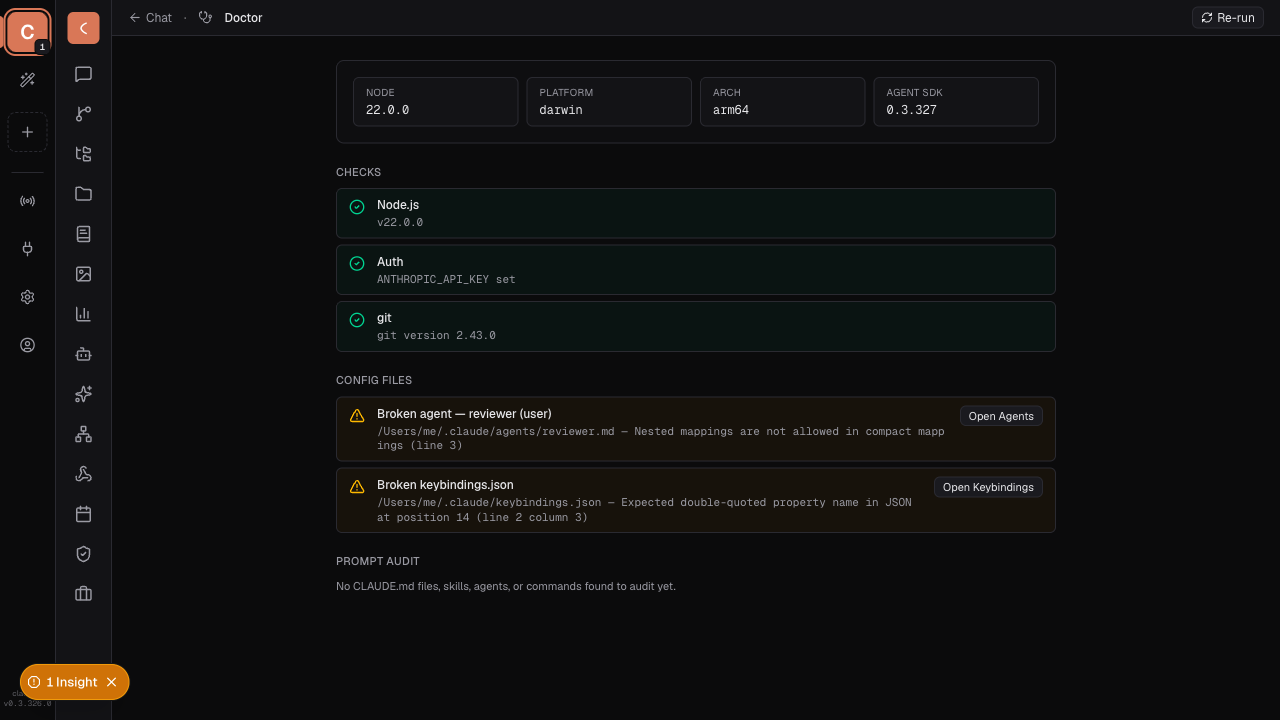
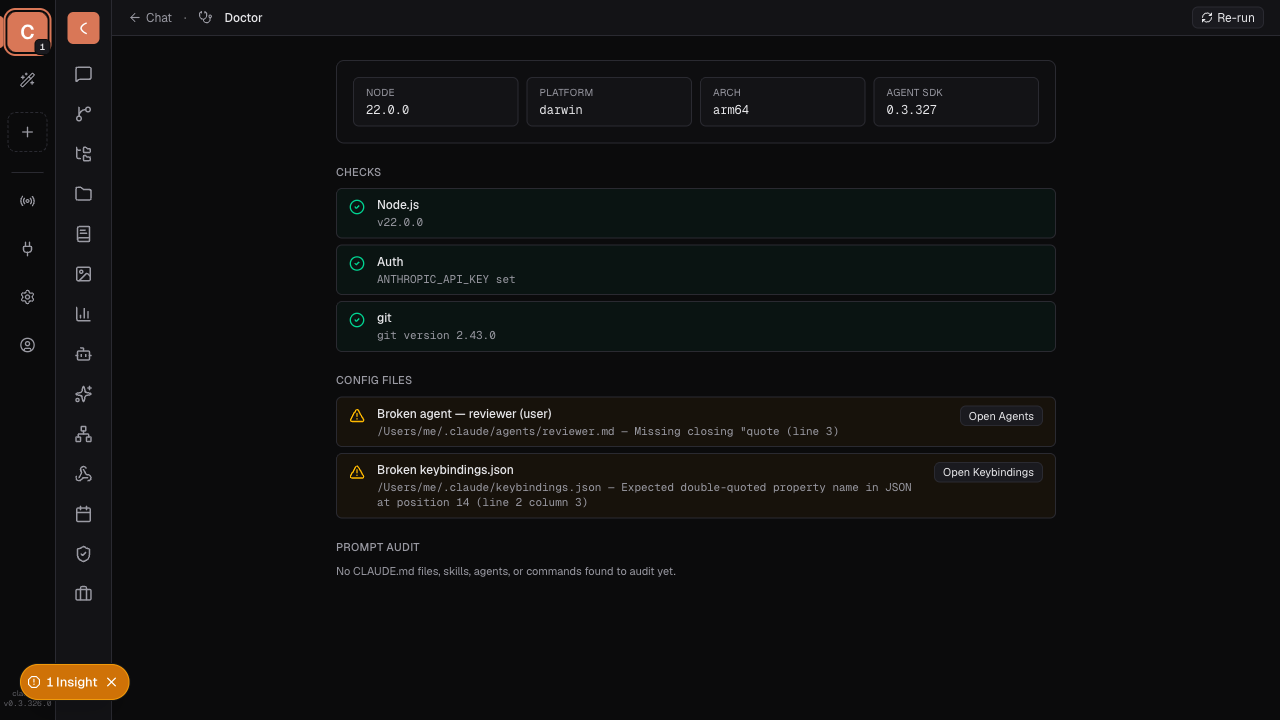
fix(cc-parity): /doctor and /status no longer flag agent and skill files the engine loads (2.1.327)
The engine retries a failed frontmatter parse after quoting values that hold
": " or YAML indicator characters, so descriptions like "Examples: <example>"
load fine there but were reported broken here (and lost their description on
the Agents/Skills pages). Both now share that fallback. /status's Problems
count covers every workspace, matching what /doctor lists.

Changed region(s): [[0.25, 0.6111, 0.8125, 0.825], [0.5, 0.5806, 0.6562, 0.6111], [0.6875, 0.5806, 0.75, 0.6111]]

diff --git a/lib/server/agents.ts b/lib/server/agents.ts
@@ -139,6 +139,51 @@ export async function deleteAgent(scope: AgentScope, projectCwd: string, name: s
 
 const FM_RE = /^---\r?\n([\s\S]*?)\r?\n---\r?\n?([\s\S]*)$/;
 
+// A plain `key: value` line whose value holds a YAML indicator character or
+// a `: ` — the engine's trigger for quote-wrapping the value.
+const YAML_SPECIAL_VALUE_RE = /[{}[\]*&#!|>%@`]|: /;
+
+function quoteSpecialValues(text: string): string {
+  return text
+    .split("\n")
+    .map((line) => {
+      const m = /^([a-zA-Z_-]+):\s+(\S.*)$/.exec(line);
+      if (!m) return line;
+      const [, key, value] = m;
+      if ((value.startsWith('"') && value.endsWith('"')) || (value.startsWith("'") && value.endsWith("'"))) {
+        return line;
+      }
+      if (value.startsWith("[") && value.endsWith("]")) {
+        try {
+          if (Array.isArray(parseYaml(value))) return line;
+        } catch {
+          // Not a valid flow list — fall through to quoting.
+        }
+      }
+      if (!YAML_SPECIAL_VALUE_RE.test(value)) return line;
+      const escaped = value.replaceAll("\\", "\\\\").replaceAll('"', '\\"');
+      return `${key}: "${escaped}"`;
+    })
+    .join("\n");
+}
+
+/**
+ * Parse frontmatter YAML the way the engine (bundled `claude`) does: strict
+ * YAML first; if that throws, quote-wrap every top-level `key: value` line
+ * whose value contains YAML indicator characters or `: ` (so
+ * `description: Use this agent when… Examples: <example>Context: …` loads),
+ * turn leading tabs into two spaces each, and parse again. Throws only when
+ * the rescued text still doesn't parse.
+ */
+export function parseFrontmatterYaml(text: string): unknown {
+  try {
+    return parseYaml(text);
+  } catch {
+    const rescued = quoteSpecialValues(text).replace(/^\t+/gm, (tabs) => "  ".repeat(tabs.length));
+    return parseYaml(rescued);
+  }
+}
+
 export function parseFrontmatter(raw: string): { frontmatter: Record<string, unknown>; body: string } {
   // CC 2.1.239 (G4) — a file saved with a UTF-8 BOM keeps the leading ``
   // after `fs.readFile(…,"utf8")`, so the `^---` delimiter never matches and the
@@ -152,14 +197,15 @@ export function parseFrontmatter(raw: string): { frontmatter: Record<string, unk
     // YAML 1.2 core schema (the `yaml` default): booleans/numbers/null parse
     // to their JS types; ISO date strings stay strings (no YAML-1.1 timestamp
     // coercion), so a `model:`/`description:` that looks date-ish is safe.
-    const parsed = parseYaml(m[1]);
+    const parsed = parseFrontmatterYaml(m[1]);
     if (parsed && typeof parsed === "object" && !Array.isArray(parsed)) {
       frontmatter = parsed as Record<string, unknown>;
     }
   } catch {
-    // Malformed YAML frontmatter falls back to empty — matching the prior
-    // parser's tolerance — rather than throwing. The body is still returned
-    // so the agent/skill prompt remains editable in the UI.
+    // Malformed YAML frontmatter (even after the engine's quoting fallback)
+    // falls back to empty — matching the prior parser's tolerance — rather
+    // than throwing. The body is still returned so the agent/skill prompt
+    // remains editable in the UI.
   }
   return { frontmatter, body: m[2] };
 }
@@ -184,7 +230,7 @@ export function frontmatterError(raw: string): string | null {
   }
   let parsed: unknown;
   try {
-    parsed = parseYaml(m[1]);
+    parsed = parseFrontmatterYaml(m[1]);
   } catch (err) {
     const e = err as Error & { linePos?: Array<{ line: number; col: number }> };
     const first = (e.message ?? String(err)).split("\n")[0].replace(/ at line \d+, column \d+:?\s*$/, "").trim();

diff --git a/tests/unit/cc-parity-2.1.327-status-problems.test.ts b/tests/unit/cc-parity-2.1.327-status-problems.test.ts
@@ -15,14 +15,22 @@ import { join } from "node:path";
  * temp HOME keeps the real `~/.claude` untouched.
  */
 
-const { frontmatterError, parseFrontmatter } = await import("@/lib/server/agents");
+const { frontmatterError, parseFrontmatter, parseFrontmatterYaml } = await import("@/lib/server/agents");
 const { listConfigFileProblems, configFileChecks } = await import("@/lib/server/config-file-problems");
 const { createWorkspace } = await import("@/lib/server/workspaces-store");
 const filesRoute = await import("@/app/api/doctor/files/route");
 const doctorRoute = await import("@/app/api/doctor/route");
 
 const GOOD = "---\nname: good\ndescription: Reviews code\n---\nYou review code.\n";
-const BROKEN = "---\nname: broken\ndescription: Reviews: code\n---\nYou review code.\n";
+// A mis-indented line: the engine's quote-wrapping fallback only rewrites
+// top-level `key: value` lines, so this still fails its second parse.
+const BROKEN = "---\nname: broken\ndescription: Reviews code\n  model: sonnet\n---\nYou review code.\n";
+// Strict YAML rejects these (`: ` inside a plain scalar), but the engine
+// quote-wraps the value and loads the agent — so they must not be flagged.
+const RESCUED = "---\nname: rescued\ndescription: Reviews: code\n---\nYou review code.\n";
+const RESCUED_EXAMPLES =
+  "---\nname: helper\ndescription: Use this agent when reviewing. Examples: <example>Context: a PR</example>\n" +
+  "tools: [Read, Grep]\n---\nBody\n";
 
 describe("frontmatterError", () => {
   test("null for valid, empty or missing frontmatter", () => {
@@ -33,11 +41,30 @@ describe("frontmatterError", () => {
     expect(frontmatterError("---\n# just a comment\n---\nbody\n")).toBeNull();
   });
 
+  test("mirrors the engine's fallback: values with `: ` or indicator characters still load", () => {
+    expect(frontmatterError(RESCUED)).toBeNull();
+    expect(parseFrontmatter(RESCUED).frontmatter).toEqual({ name: "rescued", description: "Reviews: code" });
+    expect(frontmatterError(RESCUED_EXAMPLES)).toBeNull();
+    expect(parseFrontmatter(RESCUED_EXAMPLES).frontmatter).toEqual({
+      name: "helper",
+      description: "Use this agent when reviewing. Examples: <example>Context: a PR</example>",
+      tools: ["Read", "Grep"],
+    });
+    // Backslashes and double quotes survive the quote-wrap.
+    expect(parseFrontmatter('---\ndescription: say "hi" \\ then: go\n---\n').frontmatter).toEqual({
+      description: 'say "hi" \\ then: go',
+    });
+    // Leading tabs become two spaces each.
+    expect(parseFrontmatterYaml("tools:\n\t- Read\n\t- Grep\n")).toEqual({ tools: ["Read", "Grep"] });
+  });
+
   test("names the YAML error with its file line number", () => {
     expect(frontmatterError(BROKEN)).toBe("Nested mappings are not allowed in compact mappings (line 3)");
     expect(frontmatterError("---\nname: a\nname: b\n---\n")).toBe("Map keys must be unique (line 3)");
     // Only the first line of the yaml package's multi-line message survives.
     expect(frontmatterError('---\ndescription: "open\n---\n')).not.toContain("\n");
+    // Not rescued: an unterminated quote isn't rewritten by the fallback.
+    expect(frontmatterError('---\nname: x\ndescription: "Reviews code\n---\n')).toBe('Missing closing "quote (line 3)');
   });
 
   test("flags frontmatter parseFrontmatter would drop for not being a map", () => {

diff --git a/components/overlays/StatusOverlay.tsx b/components/overlays/StatusOverlay.tsx
@@ -28,25 +28,20 @@ type Props = {
    * Claude Code parity, 2.1.275: "the signed-in account ... /status shows it."
    */
   account: { label: string; driftFromActive?: { label: string } } | null;
-  /**
-   * Workspace the chat belongs to — narrows the Problems row to its project
-   * agents/skills (plus the user scope). Null checks every workspace.
-   */
-  workspaceId?: string | null;
   onClose: () => void;
 };
 
 /**
  * CC 2.1.327 parity — "Added a list in /status of broken agent, skill …
- * files, keybinding errors". Counts what `GET /api/doctor/files` reports;
- * the full list lives in /doctor's Config files section.
+ * files, keybinding errors". Counts what `GET /api/doctor/files` reports
+ * across every workspace — the same set /doctor's Config files section
+ * lists, so the count always matches what "Open /doctor" shows.
  */
-function useConfigFileProblemCount(workspaceId: string | null): number | null {
+function useConfigFileProblemCount(): number | null {
   const [count, setCount] = useState<number | null>(null);
   useEffect(() => {
     const controller = new AbortController();
-    const qs = workspaceId ? `?workspaceId=${encodeURIComponent(workspaceId)}` : "";
-    fetch(`/api/doctor/files${qs}`, { signal: controller.signal })
+    fetch("/api/doctor/files", { signal: controller.signal })
       .then(async (res) => {
         if (!res.ok) throw new Error(`HTTP ${res.status}`);
         const data = (await res.json()) as { problems?: unknown[] };
@@ -56,7 +51,7 @@ function useConfigFileProblemCount(workspaceId: string | null): number | null {
         // Leave the row out rather than guess — /doctor still has the list.
       });
     return () => controller.abort();
-  }, [workspaceId]);
+  }, []);
   return count;
 }
 
@@ -88,10 +83,9 @@ export function StatusOverlay({
   mainAgent,
   agentCwd,
   account,
-  workspaceId = null,
   onClose,
 }: Props) {
-  const problemCount = useConfigFileProblemCount(workspaceId);
+  const problemCount = useConfigFileProblemCount();
   return (
     <Overlay title="Session status" subtitle="/status" onClose={onClose} width={520}>
       <dl className="divide-y divide-[var(--border)] text-sm">

diff --git a/tests/e2e/cc-parity-2.1.327-status-problems.spec.ts b/tests/e2e/cc-parity-2.1.327-status-problems.spec.ts
@@ -4,8 +4,8 @@
  *
  * Claudius parses agent/skill frontmatter itself and used to drop malformed
  * YAML silently — the agent listed as a normal row with no description. Now
- * `/status` gets a Problems row (count from `GET /api/doctor/files`, scoped
- * to the chat's workspace) linking to /doctor's new Config files section,
+ * `/status` gets a Problems row (count from `GET /api/doctor/files` over
+ * every workspace, the same set /doctor lists) linking to /doctor's new Config files section,
  * which names each broken file and the YAML error.
  *
  * Both endpoints are mocked here; the real handlers (temp HOME with broken
@@ -87,7 +87,7 @@ const PROBLEMS: Problem[] = [
     scope: "user",
     name: "reviewer",
     path: "/Users/me/.claude/agents/reviewer.md",
-    reason: "Nested mappings are not allowed in compact mappings (line 3)",
+    reason: 'Missing closing "quote (line 3)',
   },
   {
     kind: "keybindings",
@@ -160,8 +160,9 @@ test.describe("/status lists broken config files (CC 2.1.327 parity)", () => {
     await expect(problems).toBeVisible({ timeout: 5_000 });
     await expect(problems).toContainText("2 problems");
     await expect(page.getByTestId("status-problems-link")).toHaveText("Open /doctor");
-    // Scoped to the chat's workspace.
-    expect(filesUrls.some((u) => new URL(u).searchParams.get("workspaceId"))).toBe(true);
+    // Not narrowed to the chat's workspace — the count covers what /doctor lists.
+    expect(filesUrls.length).toBeGreaterThan(0);
+    expect(filesUrls.every((u) => !new URL(u).searchParams.has("workspaceId"))).toBe(true);
 
     await page.waitForTimeout(150);
     await page.screenshot({ path: resolve(SHOTS_DIR, "status-problems.png"), fullPage: false });

diff --git a/app/doctor/page.tsx b/app/doctor/page.tsx
@@ -167,19 +167,14 @@ export default function DoctorPage() {
                   <h2 className="mb-2 text-[11px] font-medium uppercase tracking-wide text-[var(--muted)]">
                     Config files
                   </h2>
-                  {(() => {
-                    const configFileChecks = report.checks.filter((c) => c.category === "config-files");
-                    if (configFileChecks.length === 0) {
-                      return <p className="text-[11px] text-[var(--muted)]">No config files checked.</p>;
-                    }
-                    return (
-                      <ul className="space-y-1.5" data-testid="doctor-config-files-list">
-                        {configFileChecks.map((c) => (
-                          <CheckRow key={c.id} check={c} fixingId={fixingId} onFix={fixCheck} />
-                        ))}
-                      </ul>
-                    );
-                  })()}
+                  {/* `configFileChecks` always adds an ok row when a kind is clean, so the list is never empty. */}
+                  <ul className="space-y-1.5" data-testid="doctor-config-files-list">
+                    {report.checks
+                      .filter((c) => c.category === "config-files")
+                      .map((c) => (
+                        <CheckRow key={c.id} check={c} fixingId={fixingId} onFix={fixCheck} />
+                      ))}
+                  </ul>
                 </section>
 
                 {/*

diff --git a/tests/unit/agents-frontmatter.test.ts b/tests/unit/agents-frontmatter.test.ts
@@ -92,12 +92,19 @@ describe("parseFrontmatter", () => {
   });
 
   test("malformed YAML frontmatter falls back to empty (does not throw) and keeps the body", () => {
-    // A stray unmatched bracket is invalid YAML; the parser must degrade
-    // gracefully so the prompt body stays editable in the UI.
-    const raw = ["---", "tools: [Read, Grep", "name: broken", "---", "Body.", ""].join("\n");
+    // A mis-indented line is invalid YAML even after the engine's
+    // quote-wrapping fallback; the parser must degrade gracefully so the
+    // prompt body stays editable in the UI.
+    const raw = ["---", "name: broken", "description: Reviews code", "  tools: Read", "---", "Body.", ""].join("\n");
     const { frontmatter, body } = parseFrontmatter(raw);
     expect(frontmatter).toEqual({});
     expect(body).toBe("Body.\n");
+  });
+
+  test("an unmatched bracket is rescued like the engine does: kept as the literal string", () => {
+    // Strict YAML rejects `[Read, Grep`; the engine quote-wraps it and loads.
+    const raw = ["---", "tools: [Read, Grep", "name: rescued", "---", "Body.", ""].join("\n");
+    expect(parseFrontmatter(raw).frontmatter).toEqual({ tools: "[Read, Grep", name: "rescued" });
   });
 
   test("ISO-date-looking scalars stay strings (no YAML 1.1 timestamp coercion)", () => {

diff --git a/app/api/doctor/files/route.ts b/app/api/doctor/files/route.ts
@@ -10,8 +10,9 @@ export const runtime = "nodejs";
  * count without paying for the full doctor run (which also runs a prompt
  * audit over every workspace and shells out to `git`).
  *
- * `?workspaceId=` narrows the project scope to that workspace (plus the user
- * scope). The id is only a lookup key into the workspace store — the
+ * /status calls it without arguments so its count covers the same set of
+ * workspaces /doctor lists. `?workspaceId=` narrows the project scope to
+ * that workspace (plus the user scope). The id is only a lookup key into the workspace store — the
  * directory read is the store's `rootPath`, never a path from the request.
  * Without it, every workspace is checked, exactly like /doctor.
  */

diff --git a/components/chat/ChatSurface.tsx b/components/chat/ChatSurface.tsx
@@ -3069,7 +3069,6 @@ export default function ChatSurface({ kind, id: contextId, cwd: contextCwd }: Ch
           mainAgent={session.mainAgent}
           agentCwd={session.agentCwd}
           account={session.account ?? null}
-          workspaceId={activeWorkspaceId}
           onClose={() => setOverlay(null)}
         />
       )}
